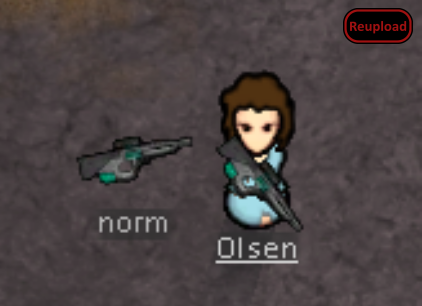
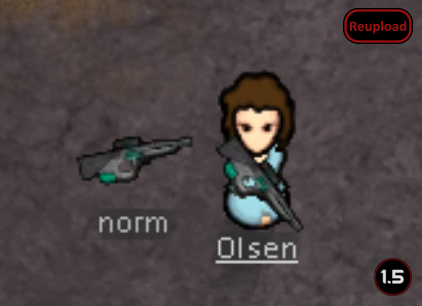
Mod updated for 1.5 and passed autotests

Changed region(s): [[0.8626, 0.8235, 0.9858, 0.9706]]

diff --git a/README.md b/README.md
@@ -24,10 +24,13 @@ This gun also can't regrow parts of the body or help with diseases. It is purely
 
 -  See if the the error persists if you just have this mod and its requirements active.
 -  If not, try adding your other mods until it happens again.
--  Post your error-log using https://steamcommunity.com/workshop/filedetails/?id=818773962]HugsLib and command Ctrl+F12
+-  Post your error-log using https://steamcommunity.com/workshop/filedetails/?id=818773962]HugsLib or the standalone https://steamcommunity.com/sharedfiles/filedetails/?id=2873415404]Uploader and command Ctrl+F12
 -  For best support, please use the Discord-channel for error-reporting.
 -  Do not report errors by making a discussion-thread, I get no notification of that.
 -  If you have the solution for a problem, please post it to the GitHub repository.
+-  Use https://github.com/RimSort/RimSort/releases/latest]RimSort to sort your mods
 
 
+
+https://steamcommunity.com/sharedfiles/filedetails/changelog/2779561472]![Image](https://img.shields.io/github/v/release/emipa606/HealingGun?label=latest%20version&style=plastic&color=9f1111&labelColor=black)
 
